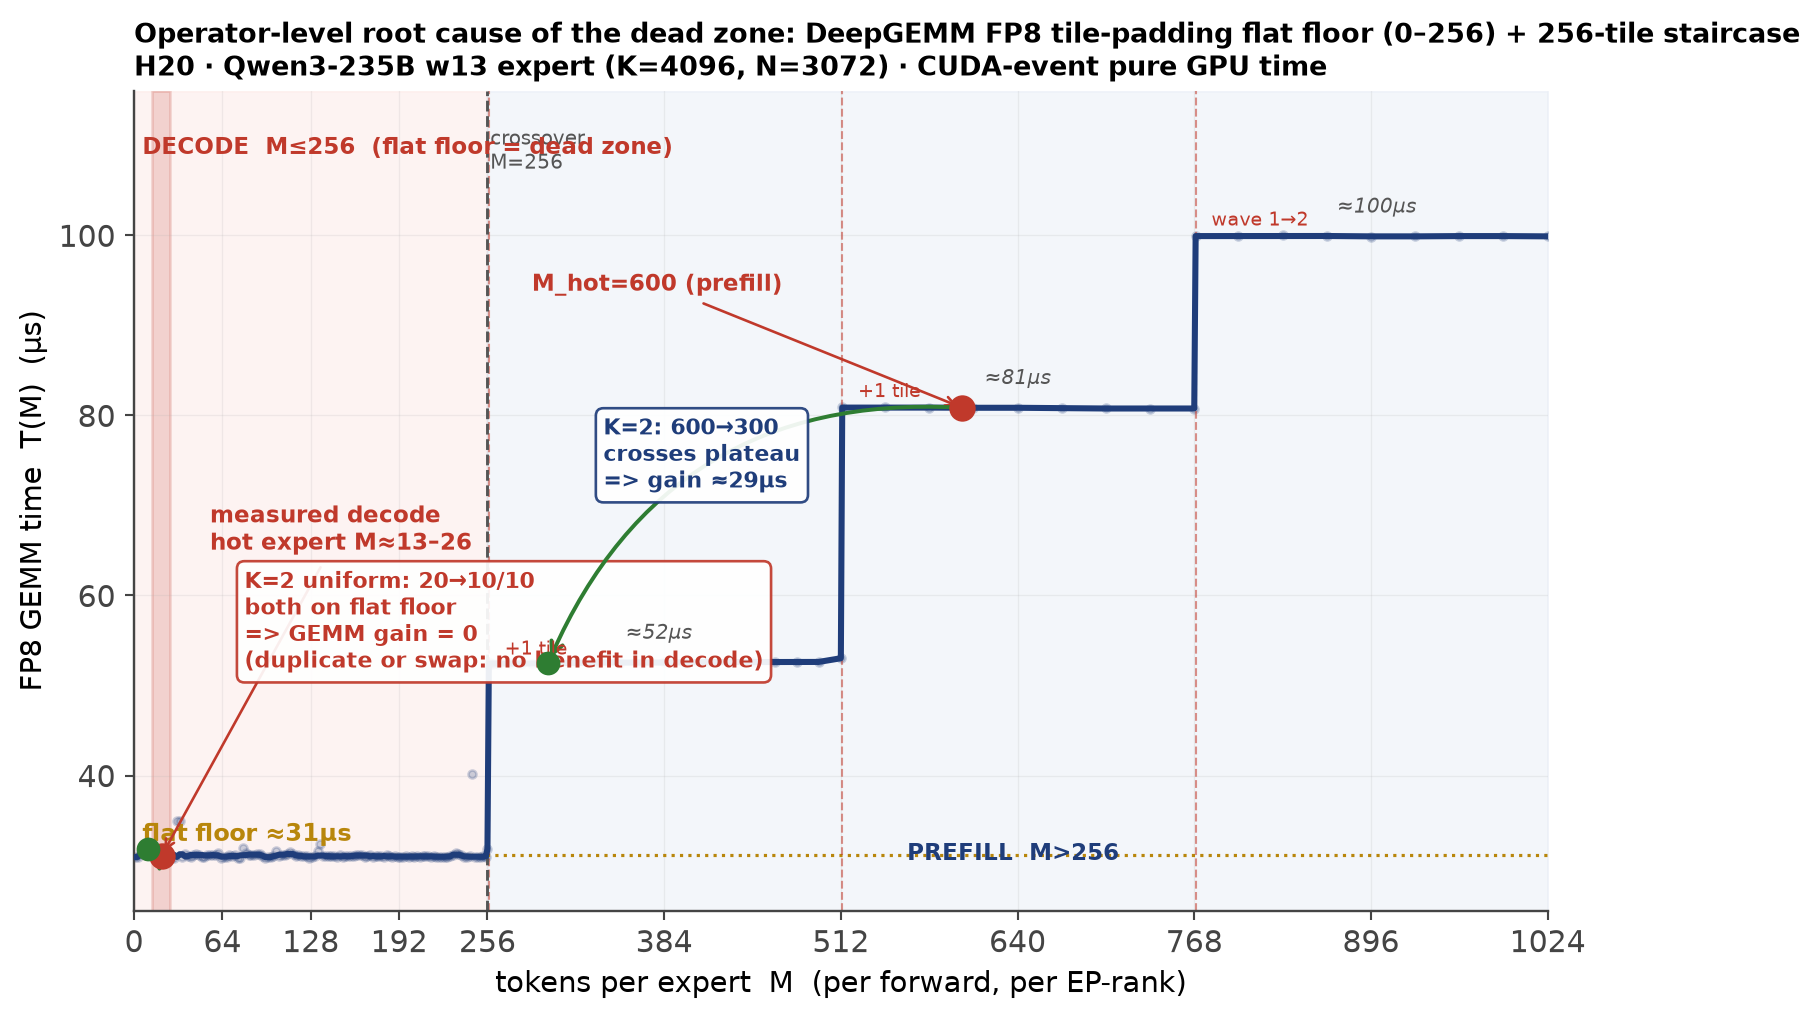
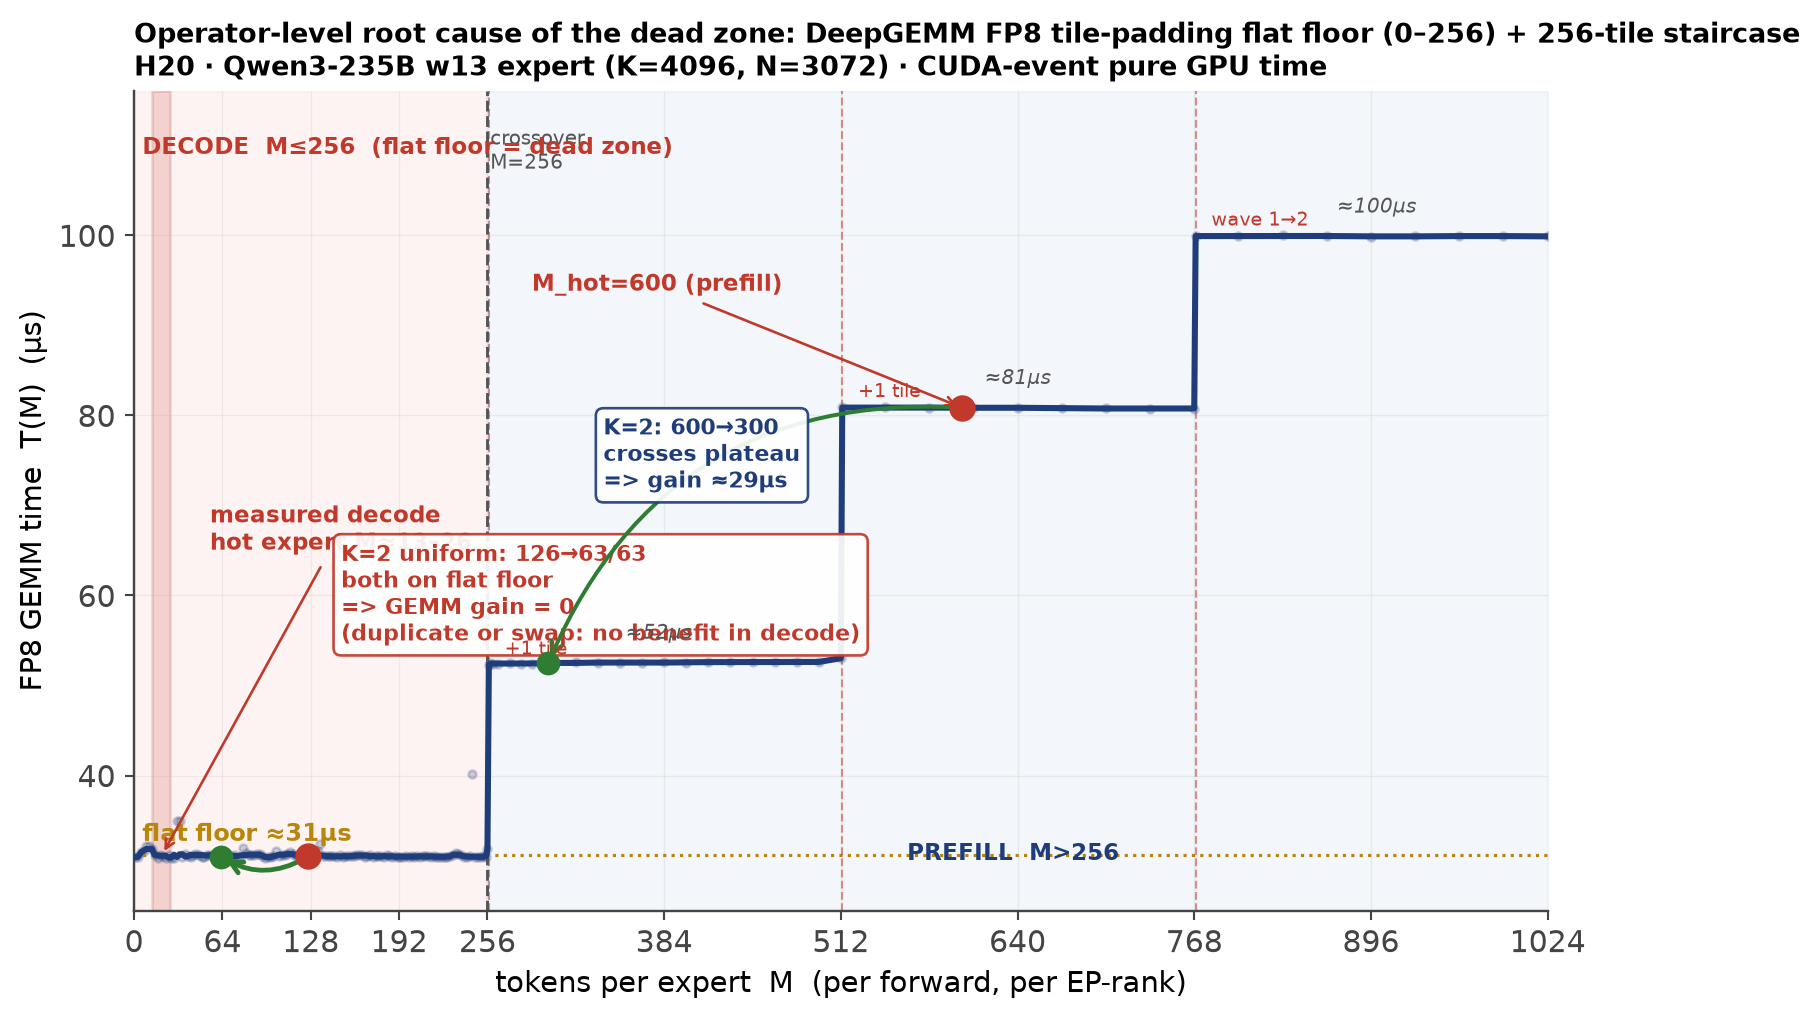
§3.1 fig: decode example K=2 uniform 126→63 (clearer arrow across flat floor)

Changed region(s): [[0.1231, 0.5177, 0.4926, 0.6699], [0.0616, 0.8222, 0.1847, 0.8831]]

diff --git a/NEW_PAPER/experiments/microbench_deepgemm/plot_key_figure.py b/NEW_PAPER/experiments/microbench_deepgemm/plot_key_figure.py
@@ -37,12 +37,12 @@ ax.axvspan(13,26,color=RED,alpha=0.18,zorder=1)
 ax.annotate('measured decode\nhot expert M≈13–26',xy=(20,T(20)),
     xytext=(55,T(20)+34),fontsize=8.6,color=RED,fontweight='bold',
     arrowprops=dict(arrowstyle='->',color=RED,lw=1.0))
-# K=2 decode sharding: 20 -> 10, both floor
-ax.plot([20],[T(20)],'o',color=RED,ms=9,zorder=5)
-ax.annotate('',xy=(10,T(10)),xytext=(20,T(20)),
-    arrowprops=dict(arrowstyle='->',color=GREEN,lw=1.5,connectionstyle='arc3,rad=-0.35'))
-ax.plot([10],[T(10)],'o',color=GREEN,ms=8,zorder=5)
-ax.text(80,52,'K=2 uniform: 20→10/10\nboth on flat floor\n=> GEMM gain = 0\n(duplicate or swap: '
+# K=2 decode sharding: 126 -> 63, both floor (uniform hypothesis)
+ax.plot([126],[T(126)],'o',color=RED,ms=9,zorder=5)
+ax.annotate('',xy=(63,T(63)),xytext=(126,T(126)),
+    arrowprops=dict(arrowstyle='->',color=GREEN,lw=1.8,connectionstyle='arc3,rad=-0.30'))
+ax.plot([63],[T(63)],'o',color=GREEN,ms=8,zorder=5)
+ax.text(150,55,'K=2 uniform: 126→63/63\nboth on flat floor\n=> GEMM gain = 0\n(duplicate or swap: '
         'no benefit in decode)',fontsize=8.2,color=RED,fontweight='bold',
     bbox=dict(boxstyle='round,pad=0.35',fc='white',ec=RED,alpha=0.92))
 
